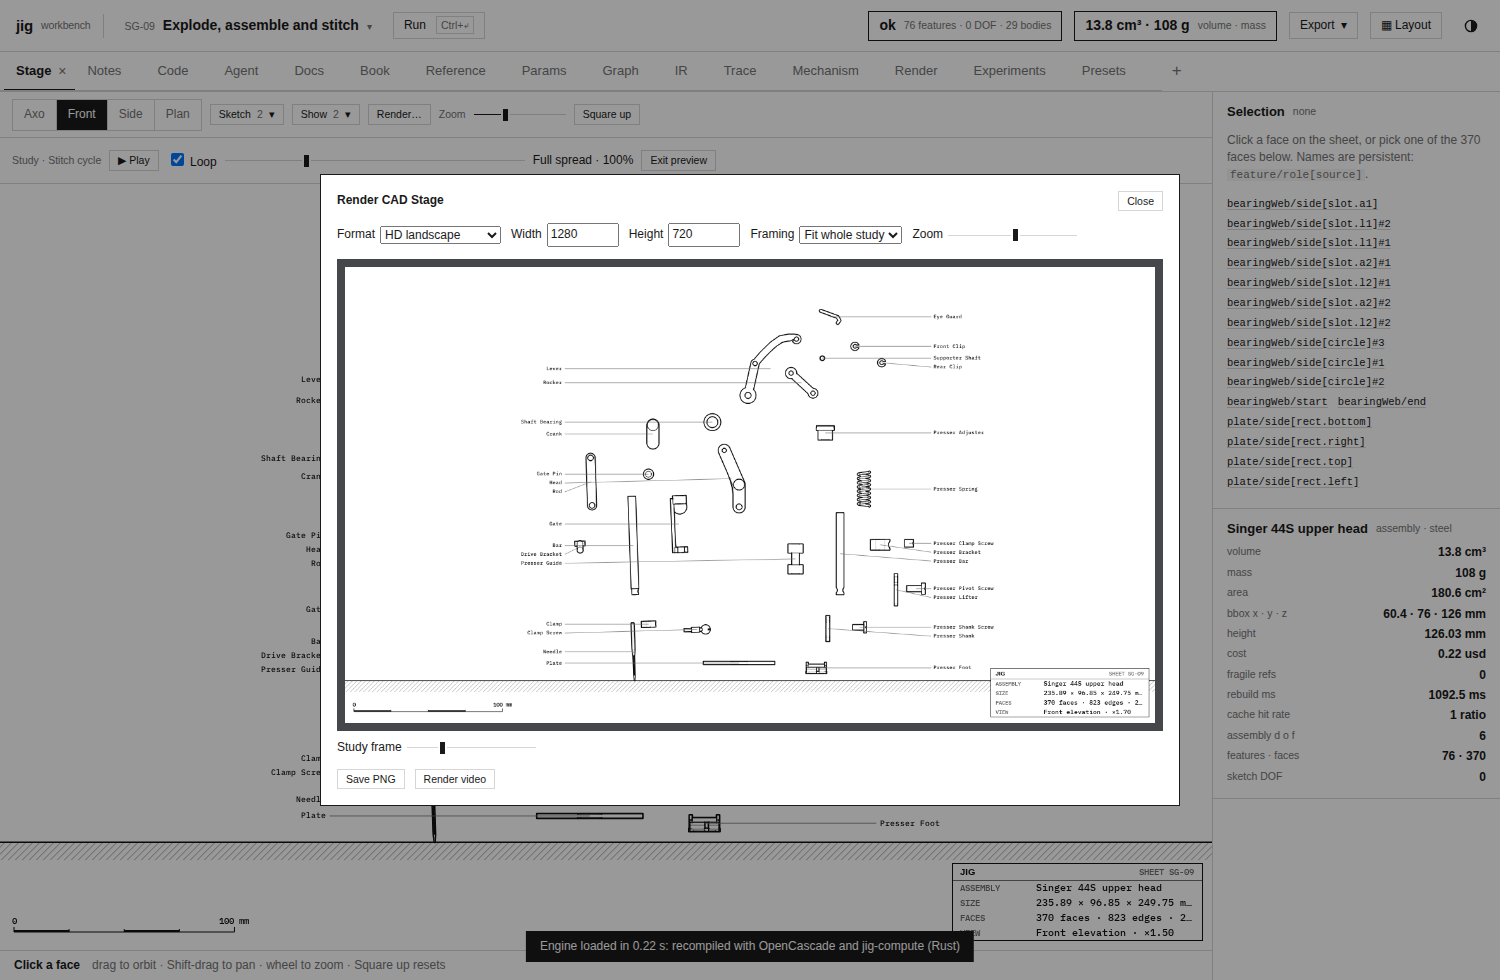
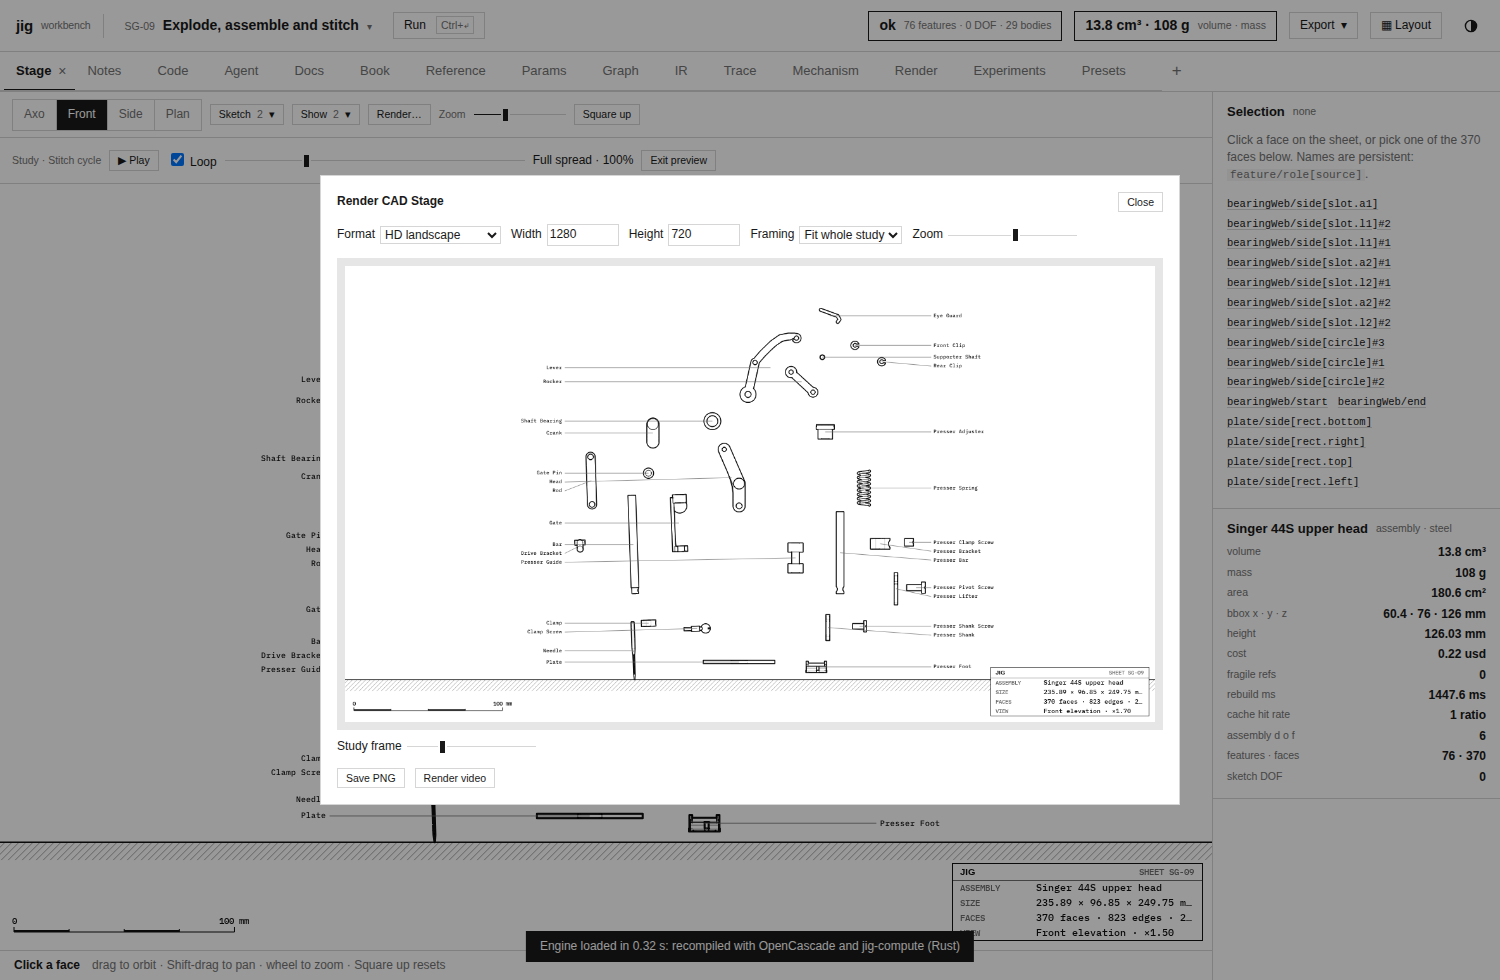
Apply workbench theme to the Stage render dialog and preview

diff --git a/import/jigcad/src/ui/jig.css b/import/jigcad/src/ui/jig.css
@@ -250,7 +250,9 @@ input[type=range]:disabled { opacity: 0.4; cursor: default; }
 .renderview .rendertime input[type=range] { flex: 1; min-width: 120px; }
 .renderview .rendertime .small { font-size: var(--fs-xs); color: var(--ink-2); font-variant-numeric: tabular-nums; }
 
-.stage-render { width:min(860px,92vw); max-height:92vh; overflow:auto; background:var(--paper,white); color:inherit; padding:16px; border:1px solid; }
+.stage-render { width:min(860px,92vw); max-height:92vh; overflow:auto; background:var(--panel); color:var(--ink); padding:16px; border:1px solid var(--hair); color-scheme:light; }
+[data-theme="dark"] .stage-render { color-scheme:dark; }
+.stage-render select,.stage-render input[type=number] { background:var(--bg); color:var(--ink); border:1px solid var(--hair); }
 .stage-render::backdrop { background:#0006; }
 .stage-render header,.stage-render footer,.stage-render fieldset { display:flex; align-items:center; flex-wrap:wrap; gap:10px; }
 .stage-render header { justify-content:space-between; }
@@ -258,5 +260,5 @@ input[type=range]:disabled { opacity: 0.4; cursor: default; }
 .stage-render label { display:inline-flex; align-items:center; gap:5px; }
 .stage-render input[type=number] { width:6em; }
 .stage-render footer { margin-top:12px; }
-.render-camera-preview { background:#45474a; display:grid; place-items:center; padding:8px; margin-bottom:8px; }
+.render-camera-preview { background:var(--fill-2); display:grid; place-items:center; padding:8px; margin-bottom:8px; }
 .render-camera-preview canvas { max-width:100%; max-height:52vh; width:auto; height:auto; }

diff --git a/import/jigcad/src/ui/views/stage-render.jsx b/import/jigcad/src/ui/views/stage-render.jsx
@@ -1,4 +1,5 @@
 import { useLayoutEffect, useRef, useState } from 'preact/hooks';
+import { onTheme } from '../../stage/theme.js';
 import { loadCandela } from '../../render/host.js';
 import { saveOrCopy } from '../save.js';
 
@@ -22,7 +23,10 @@ export function StageRender({ host, job, close }) {
     return () => active.current?.abort();
   }, []);
   useLayoutEffect(() => {
-    if (valid) job.draw(sheet.current, settings);
+    if (!valid) return;
+    const redraw = () => job.draw(sheet.current, settings);
+    redraw();
+    return onTheme(redraw, sheet.current.ownerDocument);
   }, [width, height, fit, zoom, row, job]);
   function choose(name) {
     setFormat(name);

diff --git a/ttmp/2026/11/24/SINGER-002--singer-44s-component-reconstruction-and-looping-playback/diary/01-implementation-and-geometry-evidence-diary.md b/ttmp/2026/11/24/SINGER-002--singer-44s-component-reconstruction-and-looping-playback/diary/01-implementation-and-geometry-evidence-diary.md
@@ -216,3 +216,9 @@ Video support depends on the browser's WebCodecs encoders at the requested dimen
 ### Code review instructions
 
 Start at stage-render.jsx and renderCamera in stage.js, then follow frameAt in study-playback.jsx. Run make web and the ticket's scripts/15-check-stage-render.cjs against the local server.
+
+## Step 9. Correct the render dialog contrast in dark mode
+
+The user reported “the modal doesn't seem to respeect light/dark mode?” The dialog referenced an undefined paper token and fell back to white while its labels inherited dark-mode ink. I switched the dialog, controls and preview surround to the workbench palette and set the native control color scheme. The camera canvas now redraws on theme changes while the dialog is open.
+
+Script 15 switched between dark and light with the dialog open, asserted foreground and background colors on the dialog, width input and format selector, sampled the canvas background, and captured both appearances. The PNG comparison and 312-frame video check also passed.
